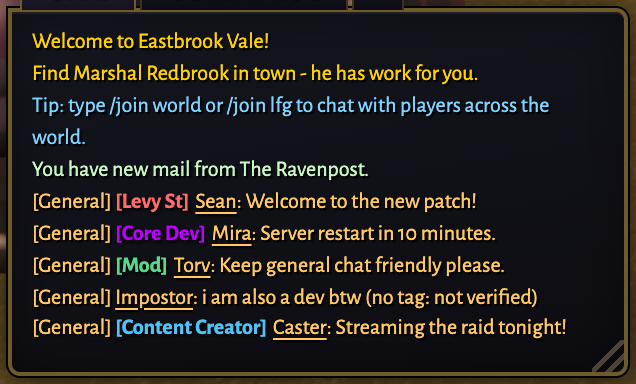
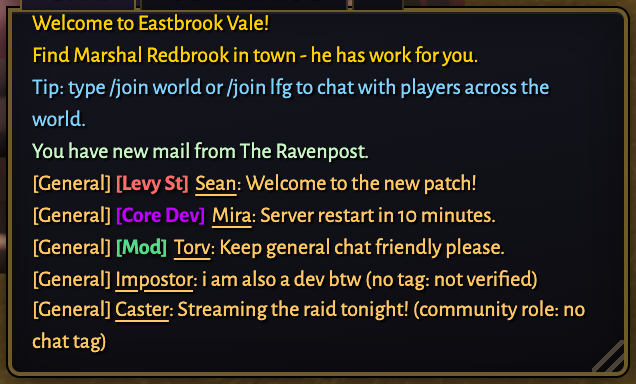
feat(chat): scope the chat role tag to staff roles only
Maintainer decision: the chat tag is a pure authority signal, so only
the staff cluster (Levy St, Admin, Core Dev, Dev, Senior/Mod/Junior Mod)
stamps chat lines. Community roles (Artist, Content Creator, LEGEND,
SHILL) keep their nameplate tags but stay untagged in chat, so a colored
bracket in chat always means staff, and the Content Creator case is
already served by the verified-streamer badge.

The policy is a chatTag flag on the shared catalog, gated at the server
stamp so non-staff roles never ride the chat wire; the staff set is
pinned in tests/discord_roles.test.ts and the fan-out test covers every
community role staying bare.

Changed region(s): [[0.0299, 0.0312, 0.9261, 0.9375]]

diff --git a/src/sim/discord_roles.ts b/src/sim/discord_roles.ts
@@ -19,6 +19,12 @@ export interface DiscordSpecialRole {
   color: string;
   /** Higher wins when a member holds more than one special role. */
   priority: number;
+  /** Staff roles only: the server stamps this role onto the holder's chat
+   *  lines as the anti-impersonation tag. Community roles (Artist, Content
+   *  Creator, LEGEND, SHILL) stay nameplate-only so the chat tag remains a
+   *  pure authority signal; diluting it with flair roles would teach players
+   *  that a colored bracket means "has some role" instead of "is staff". */
+  chatTag?: true;
 }
 
 // Matching is by role NAME, so a guild-side rename silently breaks the link
@@ -27,13 +33,21 @@ export interface DiscordSpecialRole {
 // stays on the staff green because the guild's Admin role is the renamed Mods
 // role and a Discord rename keeps the role's color.
 export const DISCORD_SPECIAL_ROLES: readonly DiscordSpecialRole[] = [
-  { key: 'levyst', name: 'Levy St', aliases: ['Levy Street'], color: '#ff6b6b', priority: 11 },
+  {
+    key: 'levyst',
+    name: 'Levy St',
+    aliases: ['Levy Street'],
+    color: '#ff6b6b',
+    priority: 11,
+    chatTag: true,
+  },
   {
     key: 'admin',
     name: 'Admin',
     aliases: ['Admins', 'Administrator', 'Administrators'],
     color: '#57d98a',
     priority: 10,
+    chatTag: true,
   },
   {
     key: 'coredevs',
@@ -41,6 +55,7 @@ export const DISCORD_SPECIAL_ROLES: readonly DiscordSpecialRole[] = [
     aliases: ['Core Devs', 'Core Developer', 'Core Developers', 'CoreDev'],
     color: '#bc00ff',
     priority: 9,
+    chatTag: true,
   },
   {
     key: 'devs',
@@ -48,6 +63,7 @@ export const DISCORD_SPECIAL_ROLES: readonly DiscordSpecialRole[] = [
     aliases: ['Dev', 'Developer', 'Developers'],
     color: '#7c8cff',
     priority: 8,
+    chatTag: true,
   },
   {
     key: 'seniormods',
@@ -55,6 +71,7 @@ export const DISCORD_SPECIAL_ROLES: readonly DiscordSpecialRole[] = [
     aliases: ['Senior Mod', 'Senior Moderator', 'Senior Moderators', 'Sr Mod', 'Sr Mods'],
     color: '#2eb872',
     priority: 7,
+    chatTag: true,
   },
   {
     key: 'mods',
@@ -62,6 +79,7 @@ export const DISCORD_SPECIAL_ROLES: readonly DiscordSpecialRole[] = [
     aliases: ['Mod', 'Moderator', 'Moderators'],
     color: '#57d98a',
     priority: 6,
+    chatTag: true,
   },
   {
     key: 'juniormods',
@@ -69,6 +87,7 @@ export const DISCORD_SPECIAL_ROLES: readonly DiscordSpecialRole[] = [
     aliases: ['Junior Mod', 'Junior Moderator', 'Junior Moderators', 'Jr Mod', 'Jr Mods'],
     color: '#9ce8b6',
     priority: 5,
+    chatTag: true,
   },
   { key: 'artists', name: 'Artists', aliases: ['Artist'], color: '#ff85d8', priority: 4 },
   {
@@ -110,6 +129,12 @@ export function topSpecialRole(roleNames: readonly string[]): DiscordSpecialRole
     if (role && (!best || role.priority > best.priority)) best = role;
   }
   return best;
+}
+
+/** Whether a stored role key is a STAFF role whose chat lines carry the
+ *  anti-impersonation tag (the server-side stamp gate; see chatTag above). */
+export function specialRoleChatTag(key: string | undefined | null): boolean {
+  return !!(key && BY_KEY.get(key)?.chatTag);
 }
 
 /** Nameplate color for a stored role key, or null when it is not a special role. */

diff --git a/server/game.ts b/server/game.ts
@@ -30,6 +30,7 @@ import {
 } from '../src/sim/data';
 import { devTierIndexForMergedPrs } from '../src/sim/dev_tier';
 import { parseRelayCommand } from '../src/sim/discord_relay';
+import { specialRoleChatTag } from '../src/sim/discord_roles';
 import {
   isInJailCage,
   JAIL_CENTER,
@@ -6199,13 +6200,16 @@ export class GameServer {
     for (const ev of events) {
       if (ev.type !== 'chat') continue;
       const flair = this.chatFlairForPid(ev.fromPid);
-      // The sender's top staff/special Discord role (the anti-impersonation
-      // chat tag) is composed here from the SENDER's entity rather than folded
-      // into the cached session.chatFlair: e.discordRole is written by the
-      // bot's members-meta push on its own cadence, so reading it live at
-      // fan-out cannot go stale. Allocates only for role holders.
+      // The sender's top STAFF Discord role (the anti-impersonation chat tag)
+      // is composed here from the SENDER's entity rather than folded into the
+      // cached session.chatFlair: e.discordRole is written by the bot's
+      // members-meta push on its own cadence, so reading it live at fan-out
+      // cannot go stale. Gated on the catalog's chatTag flag so community
+      // roles (Artist, Content Creator, LEGEND, SHILL) stay nameplate-only
+      // and the chat tag remains a pure authority signal. Allocates only for
+      // staff senders.
       const role = this.sim.entities.get(ev.fromPid)?.discordRole;
-      if (role) ev.flair = { ...flair, role };
+      if (role && specialRoleChatTag(role)) ev.flair = { ...flair, role };
       else if (flair) ev.flair = flair;
     }
     // ignore list: social invites from blocked senders are resolved once per

diff --git a/tests/discord_roles.test.ts b/tests/discord_roles.test.ts
@@ -3,6 +3,7 @@ import {
   DISCORD_SPECIAL_ROLES,
   specialRoleByKey,
   specialRoleByName,
+  specialRoleChatTag,
   specialRoleColor,
   topSpecialRole,
 } from '../src/sim/discord_roles';
@@ -223,5 +224,26 @@ describe('discord role tag labels - single source', () => {
     }
     expect(discordRoleTagKey('not-a-role')).toBeUndefined();
     expect(discordRoleTagKey(undefined)).toBeUndefined();
+  });
+});
+
+describe('discord special roles - the chat-tag staff set', () => {
+  it('pins exactly the staff roles as chat-tagged (the anti-impersonation set)', () => {
+    // The chat tag is a pure authority signal: adding a community role here
+    // (or dropping a staff one) must be a deliberate, reviewable change.
+    const tagged = DISCORD_SPECIAL_ROLES.filter((r) => r.chatTag).map((r) => r.key);
+    expect(tagged).toEqual([
+      'levyst',
+      'admin',
+      'coredevs',
+      'devs',
+      'seniormods',
+      'mods',
+      'juniormods',
+    ]);
+    expect(specialRoleChatTag('mods')).toBe(true);
+    expect(specialRoleChatTag('legend')).toBe(false);
+    expect(specialRoleChatTag('shill')).toBe(false);
+    expect(specialRoleChatTag(undefined)).toBe(false);
   });
 });

diff --git a/tests/chat_flair.test.ts b/tests/chat_flair.test.ts
@@ -278,4 +278,24 @@ describe('staff role: the chat fan-out encoding (anti-impersonation tag)', () =>
     route(server);
     expect(chatsOf(fb).find((ev) => ev.text === 'untagged').flair).toBeUndefined();
   });
+
+  it('never stamps a COMMUNITY role: the chat tag is a staff-only authority signal', () => {
+    const server = new GameServer();
+    const fa = fakeWs();
+    const fb = fakeWs();
+    const speaker = joinServer(server, fa, 1, 'Fan');
+    const listener = joinServer(server, fb, 2, 'Listener');
+    colocate(server, speaker.pid, listener.pid);
+    // Every non-staff catalog role (nameplate-tagged, chat-untagged), one line each.
+    for (const role of ['artists', 'contentcreator', 'legend', 'shill']) {
+      grantRole(server, speaker.pid, role);
+      cmd(server, speaker, `hello from ${role}`);
+    }
+    route(server);
+    for (const role of ['artists', 'contentcreator', 'legend', 'shill']) {
+      const heard = chatsOf(fb).find((ev) => ev.text === `hello from ${role}`);
+      expect(heard, role).toBeDefined();
+      expect(heard.flair, role).toBeUndefined();
+    }
+  });
 });
